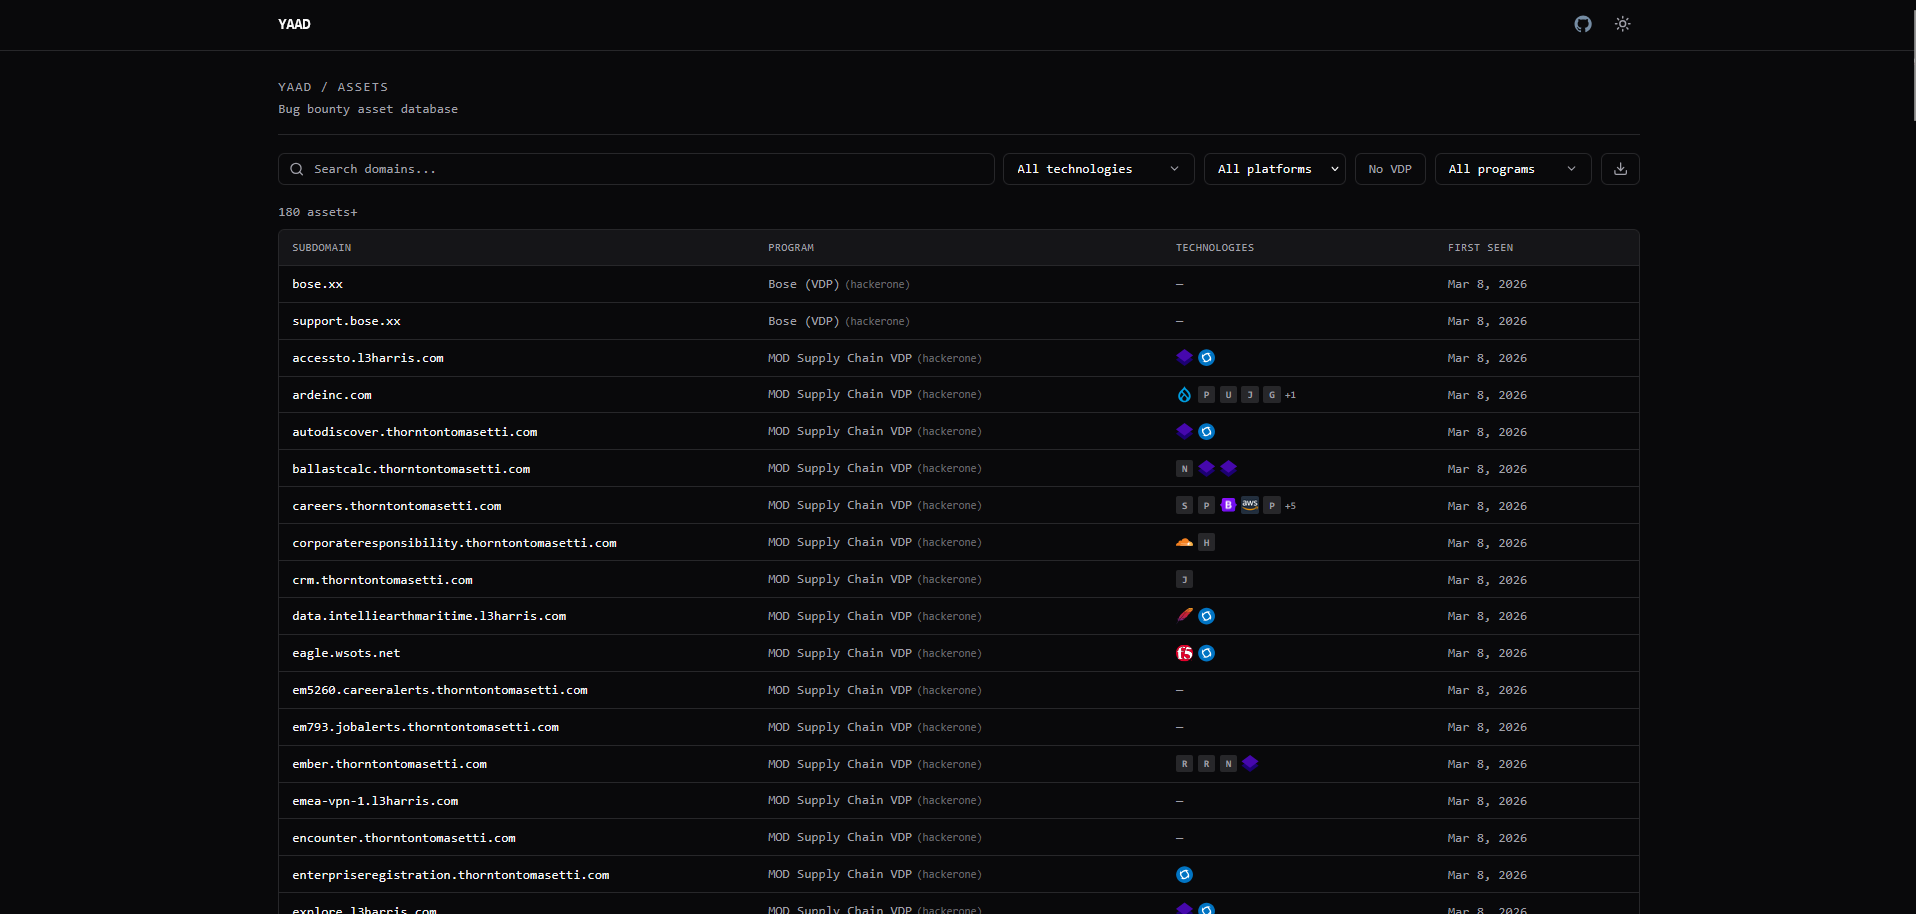
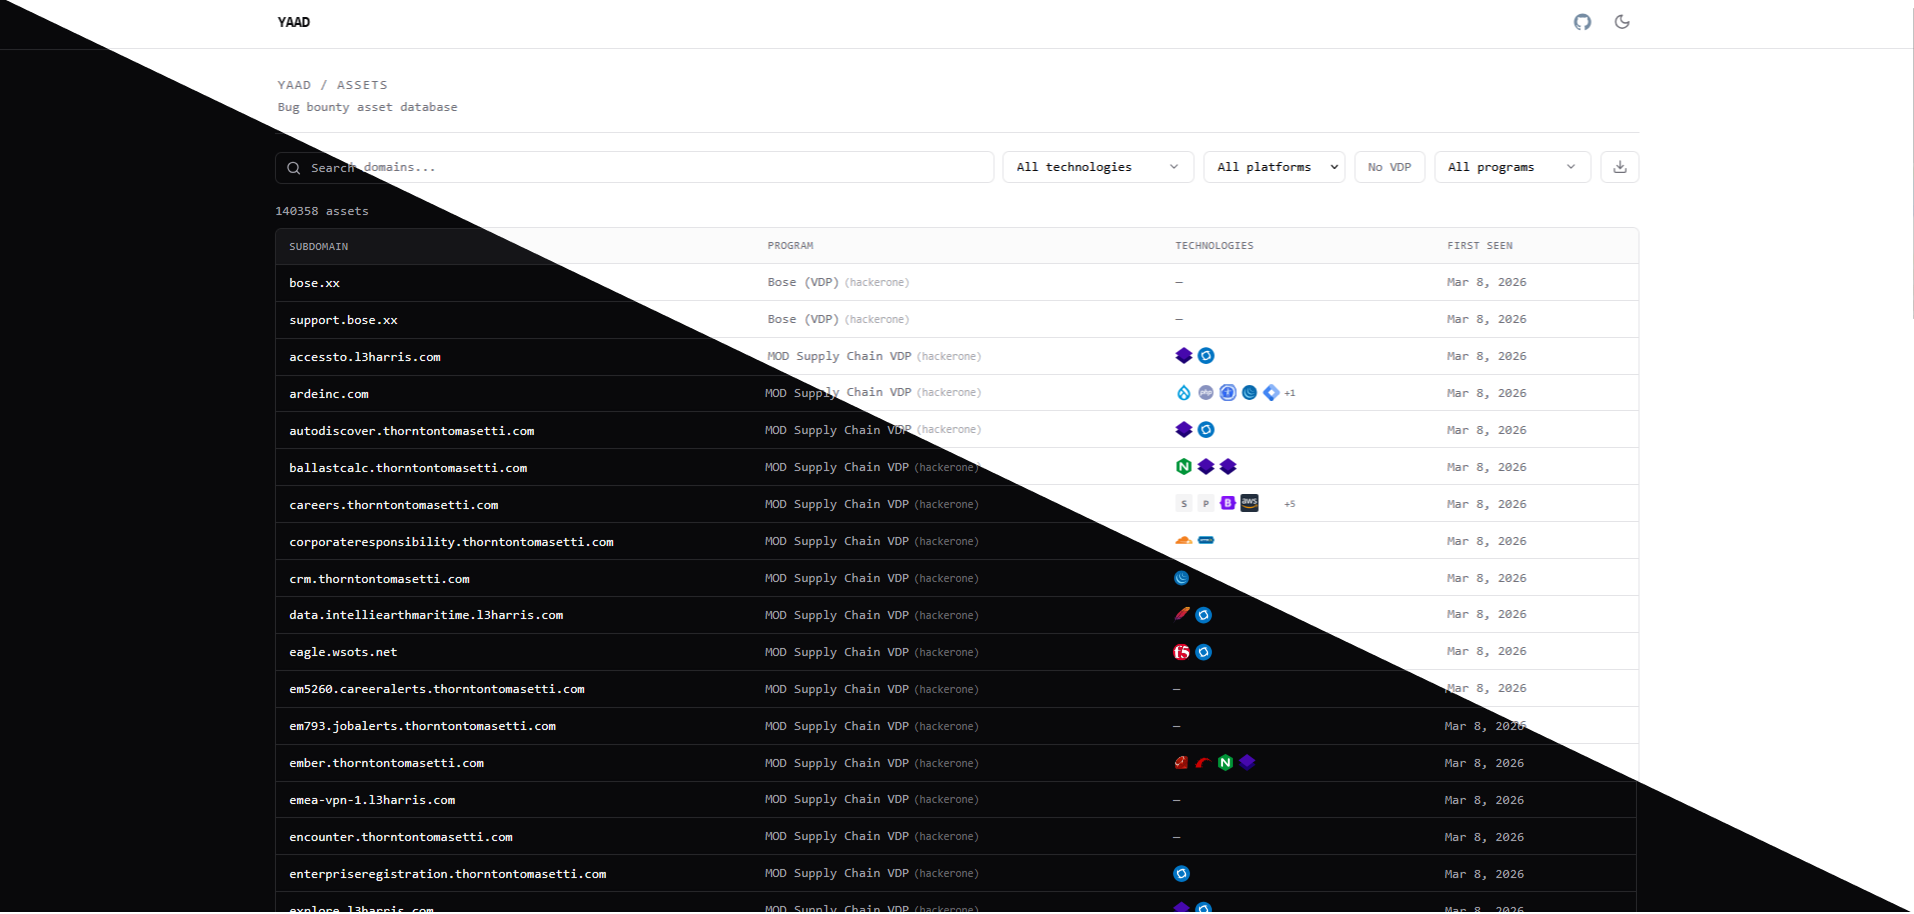
docs(readme): changed image and some paragraphs

diff --git a/README.md b/README.md
@@ -10,7 +10,7 @@ A scalable system that collects assets from bug bounty programs, enumerates thei
 2. Enumerates subdomains and live web services
 3. Extracts JavaScript files and endpoints
 4. Detects technologies via [cultivate-api](https://github.com/kapeka0/cultivate-api)
-5. Stores everything in a PostgreSQL instance, so you can ask: **"Which subdomains use Next.js 13?"**
+5. Stores everything in a PostgreSQL instance, so you can ask: **"Which subdomains from which programs are using Next.js 13?"**
 
 ---
 
@@ -157,13 +157,9 @@ A web UI for browsing, filtering, and exporting discovered assets, available at 
 
 **Features:**
 
-- Search assets by domain (debounced, synced to URL)
+- Search assets by domain
 - Filter by technology, platform, program, and VDP eligibility
-- Infinite scroll with skeleton loading
-- Export all matching domains to `.txt` (respects active filters, fetches full result set)
-- Dark / light theme toggle
-
-**Stack:** Next.js 15 · Tailwind CSS · shadcn/ui · SWR · nuqs · Drizzle ORM (direct DB access)
+- Export all matching domains to `.txt`
 
 ---
 
